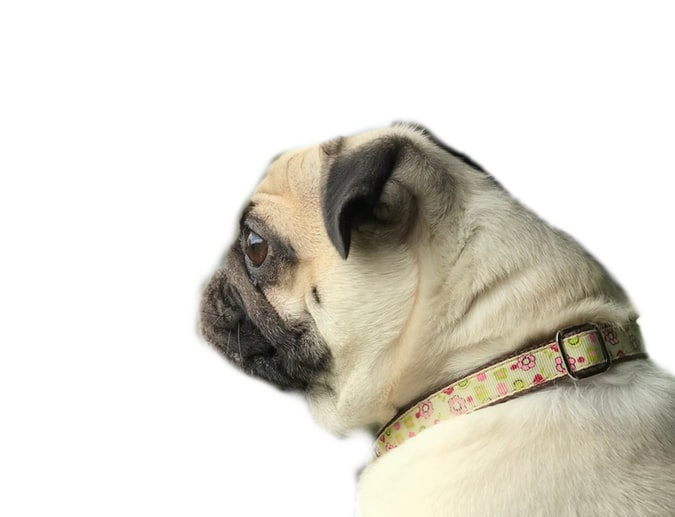
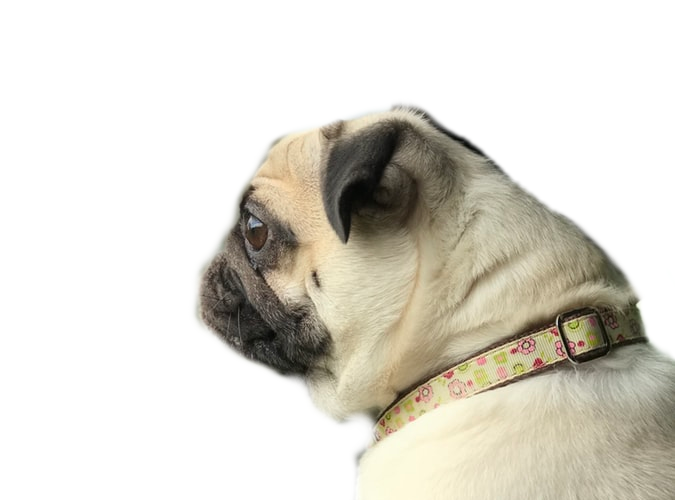
Resize img+style product sect+add form

Changed region(s): [[0.28, 0.21, 1.0, 0.87], [0.56, 0.6, 0.5911, 0.66], [0.6222, 0.54, 0.6533, 0.57]]

diff --git a/hundhalsband.html b/hundhalsband.html
@@ -33,14 +33,42 @@
                 </ul>
             </nav>
         </header>
-        <main>
+        <main class="main-center">
             <div class="item-wrap">
-                <img class="img-product" src="collar1.png" width="650" height="550" alt="Produktbild 1">
-                <section class="product">
-                    <h2>Halsband 1</h2>
-                    <p>Lorem ipsum, dolor sit amet consectetur adipisicing elit. Voluptates, non quia et nostrum ab qui temporibus ex obcaecati? Quidem, vero. Voluptate, mollitia nobis dolor quae architecto obcaecati veritatis odit adipisci!</p>
-                    <a href="#" class="button">Köp</a>
+                <img class="img-product" src="collar1.png" width="675" height="500" alt="Produktbild 1">
+                <section class="product-right">
+                    <h2 class="product-title">Halsband 1</h2>
+                    <p class="product-description">Lorem ipsum, dolor sit amet consectetur adipisicing elit. Voluptates, non quia et nostrum ab qui temporibus ex obcaecati? Quidem, vero. Voluptate, mollitia nobis dolor quae architecto obcaecati veritatis odit adipisci!</p>
+                    <form class="product-form" action="#">
+                        <p class="product-price">Pris <span>000 SEK</span></p>
+                        <label for="sizes">Storlek</label>
+                        <select id="sizes" name="sizes" required>
+                            <option value="" disabled selected>Välj här...</option>
+                            <option value="small">Small 20-35cm</option>
+                            <option value="medium">Medium 36-50cm</option>
+                            <option value="large">Large 51-65cm</option>
+                        </select>
+                        <input type="submit" class="button" value="Köp">
+                    </form>
                 </section>
+            </div>
+            <div class="item-wrap">
+                <section class="product-left">
+                    <h2 class="product-title">Halsband 2</h2>
+                    <p class="product-description">Lorem ipsum, dolor sit amet consectetur adipisicing elit. Voluptates, non quia et nostrum ab qui temporibus ex obcaecati? Quidem, vero. Voluptate, mollitia nobis dolor quae architecto obcaecati veritatis odit adipisci!</p>
+                    <form class="product-form" action="#">
+                        <label for="sizes">Storlek</label>
+                        <select id="sizes" name="sizes" required>
+                            <option value="" disabled selected>Välj här...</option>
+                            <option value="small">Small 20-35cm</option>
+                            <option value="medium">Medium 36-50cm</option>
+                            <option value="large">Large 51-65cm</option>
+                        </select>
+                        <p class="product-price">Pris <span>000 SEK</span></p>
+                        <input type="submit" class="button" value="Köp">
+                    </form>
+                </section>
+                <img class="img-product" src="collar2.png" width="675" height="500" alt="Produktbild 2">
             </div>
         </main>
         <footer id="footer-bottom">

diff --git a/stil.css b/stil.css
@@ -19,6 +19,10 @@ body { /* vit body med lite margin */
     position: relative;
 }
 
+.main-center {
+    margin: 0 5%;
+}
+
 .item-wrap {
     display: -webkit-box;
     display: flex;
@@ -26,6 +30,19 @@ body { /* vit body med lite margin */
 
 .intro {
     margin: 10% 0;
+}
+
+.product-right {
+    position: relative;
+    left: 0;
+    top: 10em;
+}
+
+.product-left {
+    position: relative;
+    right: 0;
+    top: 10em;
+    text-align: right;
 }
 
 #footer-bottom {
@@ -62,6 +79,39 @@ header {
 }
 
 /* slut på kod för HEADER/NAVIGERING layout */
+/* -------------------------- */
+/* FORMULÄR */
+
+.product-form {
+    display: inline-block;
+    margin-top: 1em;
+}
+
+.product-right .product-price {
+    margin-right: 3.5em;
+}
+
+.product-left .product-price {
+    margin-left: 3.5em;
+}
+
+select:focus,
+select:active {
+    outline: 1px dotted white;
+    outline-offset: 0.2em;
+}
+
+input[type="submit"] {
+    display: block;
+    margin: 2em 0;
+}
+
+.product-left input[type="submit"] {
+    position: absolute;
+    right: 0;
+}
+
+/* slut på kod för FORMULÄR */
 /* -------------------------- */
 /* TEXTER & LÄNKAR */
 
@@ -112,7 +162,8 @@ p, a {
     font-family: 'Montserrat', sans-serif;
 }
 
-a:focus {
+a:focus,
+a:active {
     outline: 1px dotted white;
     outline-offset: 0.2em;
 }
@@ -135,12 +186,37 @@ a:focus {
     color: black;
     font-size: 1.4em;
     font-weight: normal;
+    border: 0;
     -webkit-transition: box-shadow 0.4s ease;
     transition: box-shadow 0.4s ease;
 }
 
 .button:hover {
     box-shadow: 1px 1px 10px 3px grey;
+}
+
+.button:focus,
+.button:active {
+    outline: 1px dotted white;
+    outline-offset: 0.2em;
+}
+
+.product-description {
+    max-width: 35em;
+}
+
+.product-price {
+    font-size: 1.3em;
+    display: inline;
+}
+
+.product-price span {
+    font-weight: bold;
+}
+
+.product-form label {
+    font-family: 'Montserrat', sans-serif;
+    margin-right: 0.5em;
 }
 
 .footer-bottom-link {
@@ -167,7 +243,8 @@ a:focus {
 }
 
 .img-product {
-    margin: 0 2em 2em 2em;
+    margin: 3.5em 7em;
+    border-bottom: 1px solid white;
 }
 
 /* slut på kod för BILDER */
